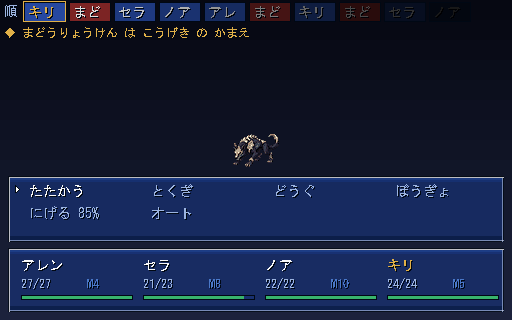
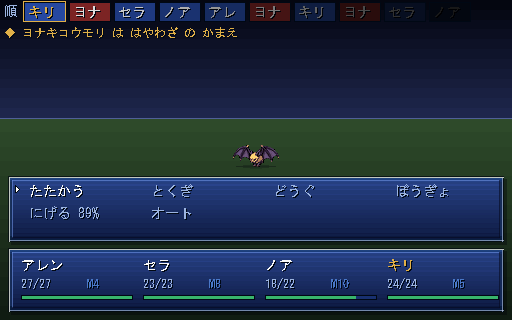
戦闘 UI を後期 SFC へ：窓の階調・面取り・落ち影と、空と地平と足元の影
半透明にしただけでは後期 SFC にならなかった。窓の不透明度は前から 0.72 に
してあったのに画面はファミコンのままで、原因は「単色の板に枠を描いていた」こと。
DQ6 の窓が richer に見えたのは透過に加えて中の階調・面取り・落ち影が全部
乗っていたから。3 つとも draw_window に入れたので、拠点も店もメニューも
同じ関数を通っている以上、全画面が一度に richer になる。

階調はわざと段にする（12 段）。SFC の階調は実際に段になっていて、滑らかに
繋ぐとむしろ時代がずれる。面取りは 1px の明暗 2 本で足り、window.png を
描き替えずに厚みが出る。

戦闘背景は一枚の階調では「場所」にならない。空と地面を別の階調にして境目に
地平線を 1 本入れると、敵が立っている面ができる。地面の色は生物相ごとに
変えた（雪原で戦っているのに土色だと生物相を持たせた意味が薄れる）。
足元に楕円の影を入れて、宙に浮いて見えるのを止めた。

残りは HP/MP バーの階調と行動順バー。tasks.md に残した。

diff --git a/tasks.md b/tasks.md
@@ -13,7 +13,7 @@
 
 ## 進み具合
 
-**済んだこと 70 件 / 残り 7 件。**
+**済んだこと 76 件 / 残り 7 件。**
 
 終わった項目はここから消して `docs/tasks_archive.md` へ移すので、
 このファイルに `[x]` は残らない。**動いているかどうかは下の「直近に済んだこと」で見る。**
@@ -21,24 +21,20 @@
 
 ### 直近に済んだこと
 
-- **引き離すときは床と壁の両方を動かす。** 壁だけ暗くしたら、草原が夜の洞窟に
-- **マップチップは却下せずに直す形へ変えた。** 床と壁の RGB 距離が 40 未満の
-- **私が承認されていない概念を設計根拠にしていた。** 「代償」「失うことが主題」は
-- **生物相に意味を持たせる。** 敵の抽選を絞る（雪原は氷に強いもの、火山は火に
-- **生物相は「その地帯の平均の危険度」で決める。** 種の危険度で決めたら、
+- **足元の影が無いと敵は宙に浮いて見える。** 楕円ひとつで直る。
+- **戦闘背景は一枚の階調では「場所」にならない。** 空と地面を別の階調にして、
+- **`draw_window` に入れたので全画面が一度に richer になった。** 拠点も店も
+- **面取りは 1px の明暗 2 本で足りる。** 内側の上辺・左辺に明線、下辺・右辺に
+- **階調はわざと段にする。** SFC の階調は実際に段になっていて、滑らかに繋ぐと
 
 ## 次にやる（効き目の大きい順）
 
-- [ ] **戦闘の UI がまだファミコンに見える。狙いは後期 SFC（DQ6 の透過処理）。**
-      窓の不透明度（`PixelUI.WINDOW_ALPHA` 0.72）は入れたが、**それだけでは足りない。**
-      後期 SFC が richer に見えたのは、半透明に加えて
-      (1) 窓の中に上下の階調（単色の板にしない）
-      (2) 文字と窓枠の落ち影
-      (3) 枠の面取り（内側に明線、外側に暗線）
-      (4) HP/MP バーの階調と、減ったぶんの残像
-      (5) 背景を単色で塗らず、地平の階調と敵の足元の影
-      を全部やっていたから。`src/ui/pixel_ui.gd` と `src/scenes/battle_view.gd`。
-      **撮って見るまで「できた」と言わない。**
+- [ ] **戦闘 UI の後期 SFC 化、残り 2 つ。** 窓の階調・面取り・落ち影と、
+      空／地平／生物相ごとの地面／足元の影までは入れた（`PixelUI.draw_window`、
+      `BattleView._draw_backdrop`）。残っているのは
+      (1) HP/MP バーの階調と、減ったぶんの残像（いまは単色の帯）
+      (2) 行動順バーがまだ単色の箱の列
+      どちらも `PixelUI` 側に寄せれば全画面に効く。**撮って見るまで完了にしない。**
 - [ ] **町の中が無い。NPC も居ない。** いま町は踏むと品書きが開くだけで、
       場所として存在していない。町の中の地図（宿・店・人）を作り、
       `ExploreView` でそのまま歩けるようにする（地図の型は `FieldMap` で揃っている）。

diff --git a/docs/tasks_archive.md b/docs/tasks_archive.md
@@ -241,3 +241,21 @@
   なった（元の絵が既に暗かったため）。床を明るく・壁を暗く同じ段だけ開けば、
   中間の明るさが保たれて元の調子が残る。色相は触らない（絵が壊れる）。
   結果、5 種すべて取り込めた（草原 9.0 → 49.4、湿地 3.4 → 45.4、火山 7.2 → 47.4）。
+
+## 2026-07-30（戦闘 UI を後期 SFC へ）
+
+- **半透明にしただけでは後期 SFC にならない。** 窓の不透明度は前から 0.72 に
+  してあったのに、画面はファミコンのままだった。DQ6 の窓が richer に見えたのは
+  透過**に加えて**「中の階調」「面取り」「落ち影」が全部乗っていたから。
+  単色の板に枠を描くと、透けていてもファミコンに見える。
+- **階調はわざと段にする。** SFC の階調は実際に段になっていて、滑らかに繋ぐと
+  むしろ時代がずれる（12 段）。
+- **面取りは 1px の明暗 2 本で足りる。** 内側の上辺・左辺に明線、下辺・右辺に
+  暗線。枠の絵（window.png）を描き替えずに厚みが出る。
+- **`draw_window` に入れたので全画面が一度に richer になった。** 拠点も店も
+  メニューも同じ関数を通っている。UI の質は 1 か所に集めておくほど上げやすい。
+- **戦闘背景は一枚の階調では「場所」にならない。** 空と地面を別の階調にして、
+  境目に地平線を 1 本入れる。これだけで敵が「立っている面」ができる。
+  地面の色は生物相ごとに変えた（雪原で戦っているのに土色だと、生物相を
+  持たせた意味が薄れる）。
+- **足元の影が無いと敵は宙に浮いて見える。** 楕円ひとつで直る。
